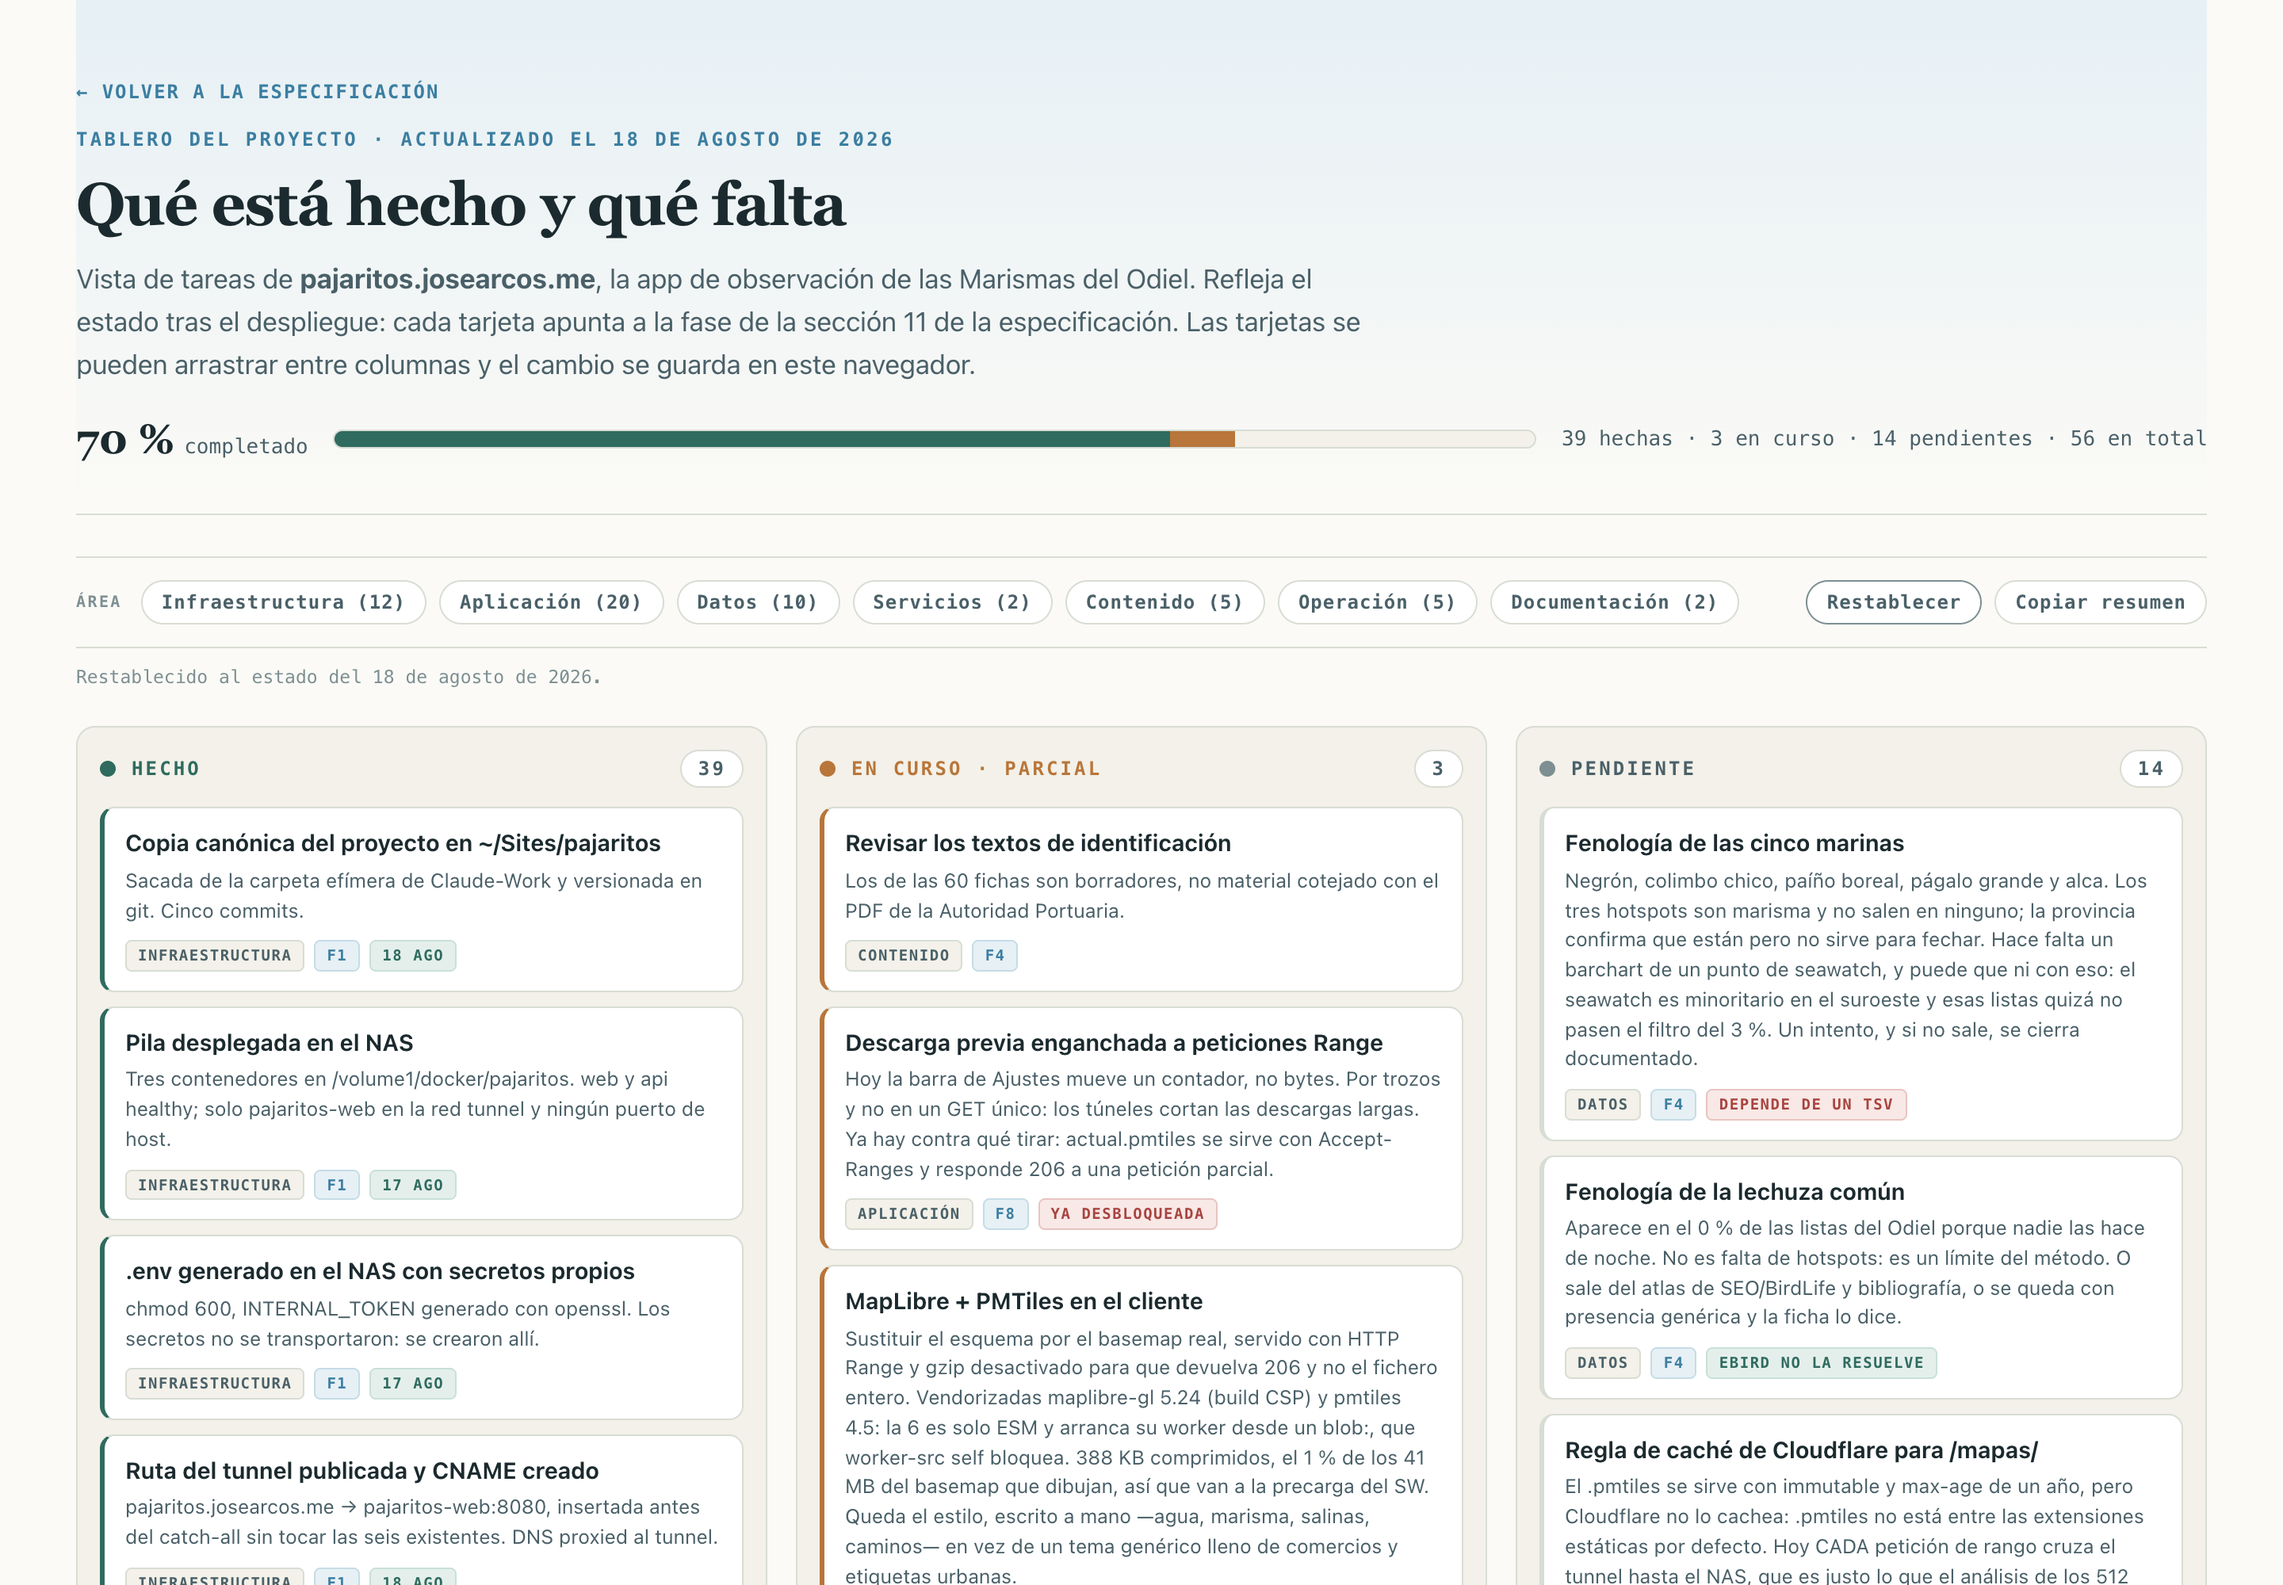
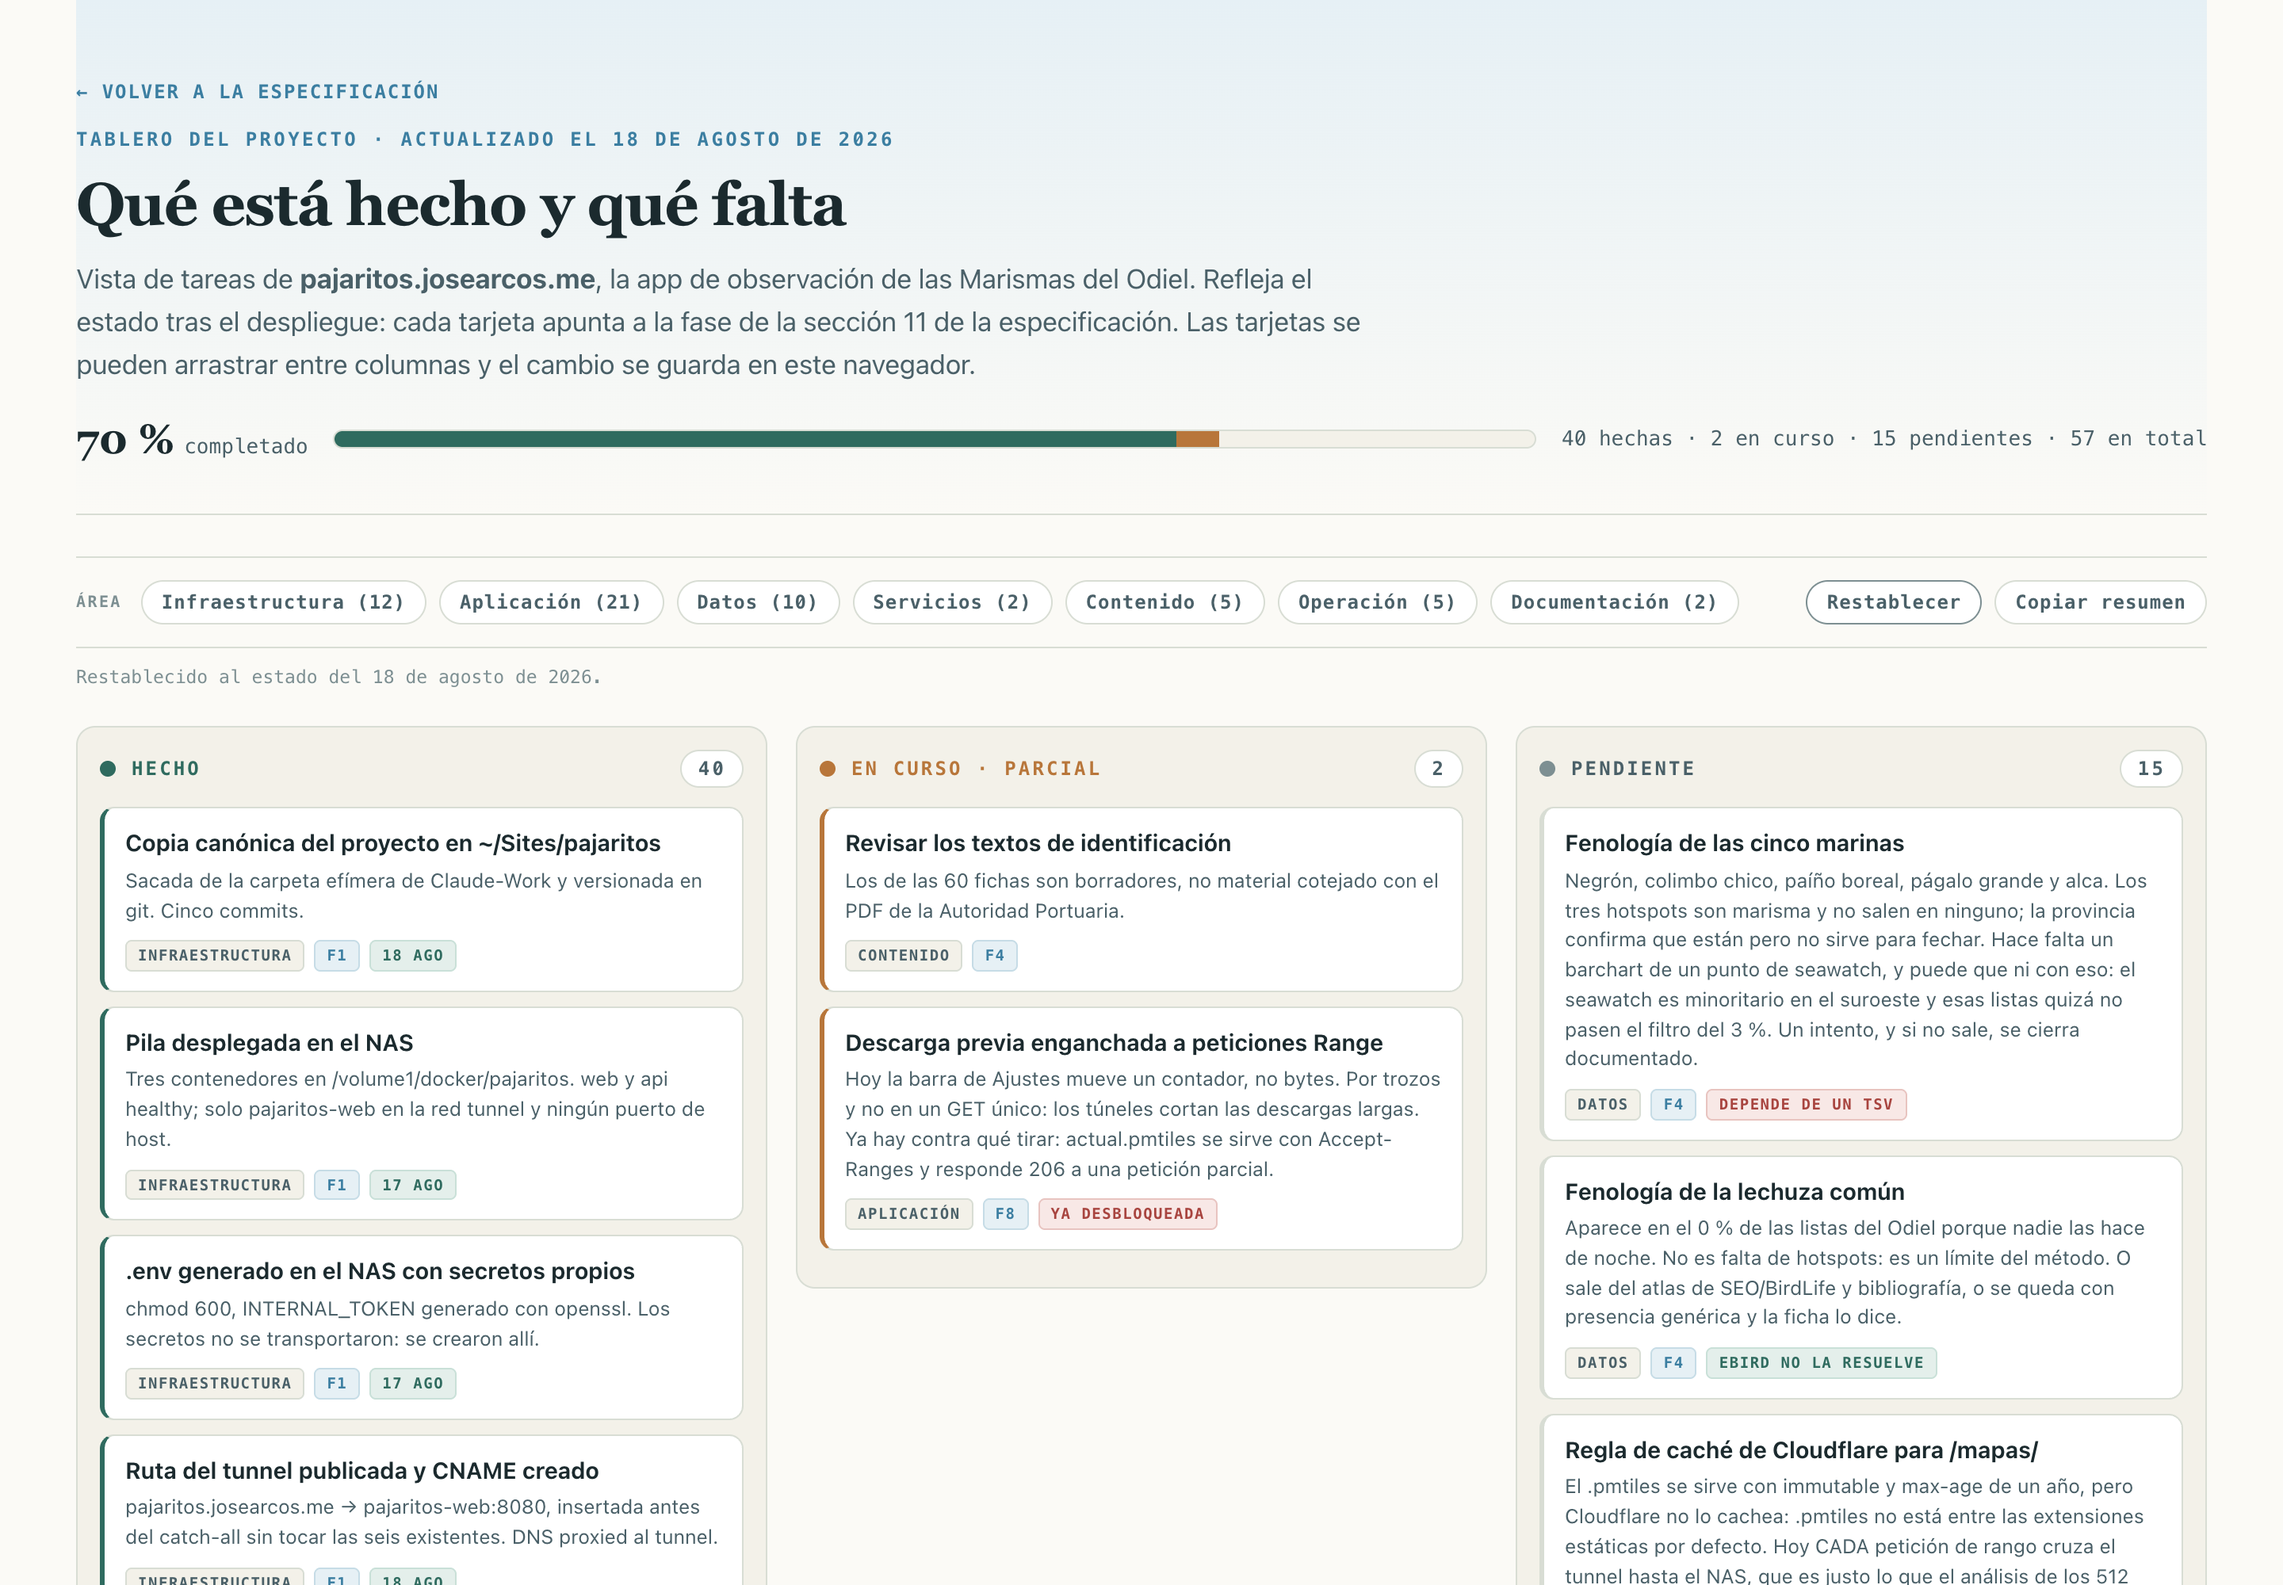
docs: tablero · el mapa real esta en produccion
t40 pasa a hecha. t57 nueva: sin glifos el basemap no rotula rios ni parajes,
y autoalojar el paquete de Protomaps suma a la precarga. Queda por decidir.

57 tarjetas: 40 hechas, 2 en curso, 15 pendientes.

Claude-Session: https://claude.ai/code/session_017QZPnedkC6VpJskT39zBg9

Changed region(s): [[0.3438, 0.806, 0.625, 1.0]]

diff --git a/docs/tablero.html b/docs/tablero.html
@@ -263,8 +263,10 @@ const TAREAS = [
   // ─────────────────────────────── pendiente
   { id:'t39', e:'pendiente', a:'contenido', f:'F7', t:'Banco de imágenes de las 60 especies',
     d:'Descarga de Commons e iNaturalist, verificación especie a especie, conversión a WebP y manifiesto de atribución en CSV.' },
-  { id:'t40', e:'curso', a:'app', f:'F5', x:'librerías dentro', t:'MapLibre + PMTiles en el cliente',
-    d:'Sustituir el esquema por el basemap real, servido con HTTP Range y gzip desactivado para que devuelva 206 y no el fichero entero. Vendorizadas maplibre-gl 5.24 (build CSP) y pmtiles 4.5: la 6 es solo ESM y arranca su worker desde un blob:, que worker-src self bloquea. 388 KB comprimidos, el 1 % de los 41 MB del basemap que dibujan, así que van a la precarga del SW. Queda el estilo, escrito a mano —agua, marisma, salinas, caminos— en vez de un tema genérico lleno de comercios y etiquetas urbanas.' },
+  { id:'t40', e:'hecho', a:'app', f:'F5', x:'en producción', t:'MapLibre + PMTiles en el cliente',
+    d:'El esquema por coordenadas ya es historia: basemap real servido desde el NAS con peticiones Range. Estilo escrito a mano tras preguntarle al .pmtiles qué trae en el Odiel —landuse/wetland es la marisma, water/basin las salinas, roads/footway los senderos—, colores leídos del CSS para que los tres modos de pantalla arrastren al mapa, y los 17 puntos como marcadores HTML en vez de capa vectorial, que así llevan etiqueta sin servidor de glifos y siguen siendo botones. Librerías precargadas por el SW pero cargadas al abrir el mapa: 388 KB que no paga quien solo mira la marea.' },
+  { id:'t57', e:'pendiente', a:'app', f:'F5', x:'sin rótulos', t:'Glifos para los nombres del basemap',
+    d:'El estilo va sin la clave glyphs, así que el mapa no rotula ríos ni parajes: los únicos nombres son los de nuestros 17 puntos. Protomaps publica un paquete de glifos que habría que autoalojar, con lo que eso suma a la precarga. Decidir si compensa.' },
   { id:'t41', e:'pendiente', a:'app', f:'F6', t:'Hoja imprimible A4 del cuaderno',
     d:'Cabecera de salida, 28 filas preimpresas con lo esperable del mes y recuadro de croquis. Con pruebas de impresión reales.' },
   { id:'t42', e:'pendiente', a:'operacion', f:'—', t:'Rate limiting en el borde de Cloudflare',
